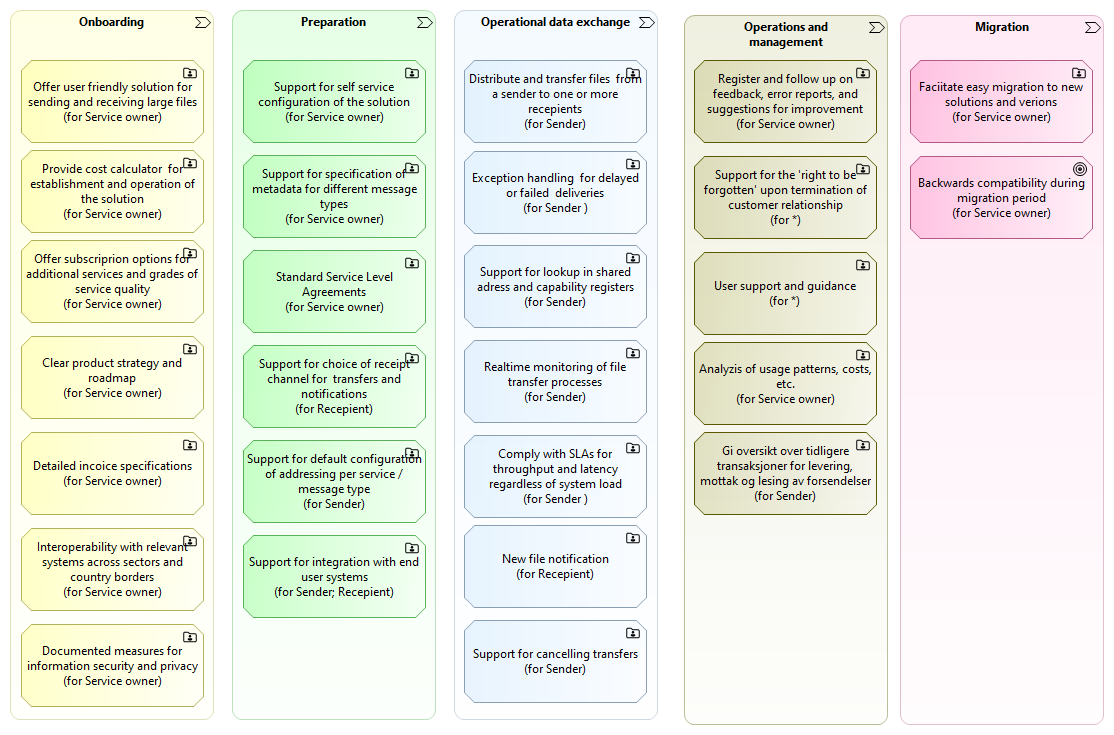
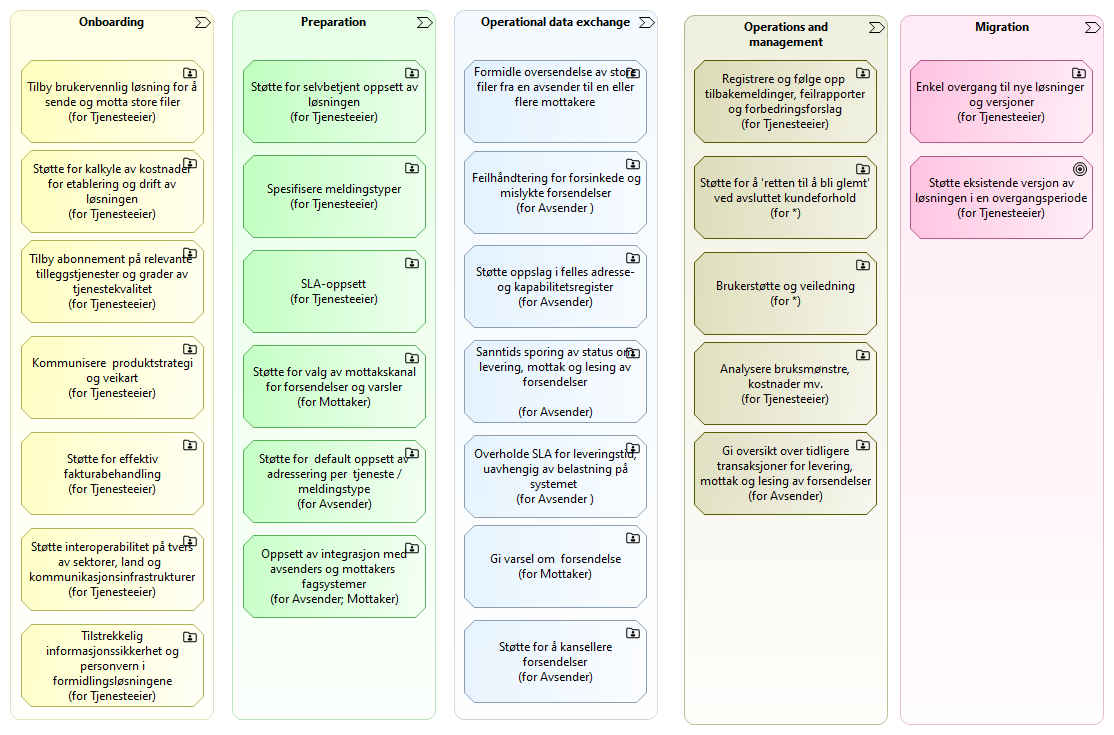
Altinn 3 Broker translation to Norwegian in progress

diff --git a/content/broker/capabilities/_index.nb.md b/content/broker/capabilities/_index.nb.md
@@ -42,8 +42,8 @@ Eksempler på hvordan man leser diagrammet:
 * Som en avsender trenger jeg (evnen) til å sende store  filer til en eller flere mottakere .
 
 
-##  Overordnet systemfunksjonalitet
-
+##  Overordnet systemfunksjonalitet (kapabiliteter)
+ 
 Følgende modell viser overordnede systemkapabiliteter, tilsvarende overordnede brukerbehov som beskrevet i forrige avsnitt.
 
 
@@ -55,89 +55,85 @@ selv om dette ofte kan være tilfeller._
 <!-- Erik TO_DO: Diagram with mapping from user needs (or user capabilities) to system capabilities -->
 
 
-## System features
-For further breakdown of the high-level system capabilities into features, see the [Altinn Broker epics on Github](https://github.com/orgs/Altinn/projects/54/views/11).
+## Detaljert funksjonalitet (features)
 
-_Note: Documentation of the breakdown into features is planned to also be included here._
+For nedbrytning av overordnede kapabiliteter til mer detaljert funksjonalitet (features), se under [Altinn Broker fetaures på Github](https://github.com/orgs/Altinn/projects/54/views/11).
 
-
-
-## Non-functional requirements
-
-Performance Requirements:
-
-- Support for storage and transfer of large files. _Note: Exact file size specifications TBD._
-- High throughput to handle large volumes of data transactions efficiently.
-- Low latency in data processing and transmission.
-
-Scalability:
-
-- Ability to scale up or down based on the demand and number of users.
-- Support for horizontal and vertical scaling strategies.
-
-Availability and Reliability:
-
-- High availability, aiming for near 100% uptime.
-- Robust failover and redundancy mechanisms to ensure continuous  operation.
-- Reliable file transfers. _Note: Detailed requirements TBD._
-
-Security:
-
-- Strong encryption for data in transit and at rest.
-- Comprehensive access control and authentication mechanisms.
-- Regular security audits and compliance with relevant data protection regulations.
-
-Maintainability and Upgradability:
-
-- Ease of maintenance and updates without significant downtime.
-- Modular design to facilitate updates and integration of new features.
-
-Disaster Recovery and Data Backup:
-
-- Effective disaster recovery plan to handle system failures.
-- Regular data backups and secure storage solutions.
-
-Usability:
-
-- User-friendly interface for both administrators and end-users.
-- Comprehensive documentation and user support.
-
-Interoperability:
-
-- Compatibility with various data formats and systems used by businesses
-  and government agencies.
-- APIs for integration with external systems and services.
-
-Compliance and Legal Requirements:
-
-- Adherence to national and international standards and regulations.
-- Regular compliance audits and updates as per legal changes.
-
-Monitoring and Logging:
-
-- Extensive monitoring of system performance and security.
-- Detailed logging of transactions and user activities for audit
-  purposes.
-
-Data Integrity and Quality:
-
-- Mechanisms to ensure the accuracy and consistency of data.
-- Validation checks to maintain data quality.
-
-Load Balancing:
-
-- Effective distribution of workload across servers and resources.
-- Load balancing to optimize resource use and maximize throughput.
-
-Environmental and Operational Conditions:
-
-- Designed to operate under the specified environmental conditions
-  (e.g., data center temperature and humidity).
-- Consideration for operational conditions like power consumption and
-  cooling requirements.
+_Merk: Dokumentasjon av nedbrytning til "features" er planlagt her._
 
 
-Also see:
+## Ikke-funksjonelle krav
 
-1. [Altinn Studio Non-Functional Requirements](https://docs.altinn.studio/technology/architecture/requirements/non_functional/)
-2. Further descriptions regarding information security in separate sections.
+Ytelseskrav:
+
+* Støtte for lagring og overføring av store filer. _Merk: Eksakte spesifikasjoner for filstørrelse skal bestemmes._
+* Høy gjennomstrømming for å effektivt håndtere store volumer av datatransaksjoner.
+* Lav forsinkelse i databehandling og -overføring.
+
+Skalerbarhet:
+
+* Evne til å skalere opp eller ned basert på etterspørsel og antall brukere.
+* Støtte for strategier for horisontal og vertikal skalering.
+
+Tilgjengelighet og pålitelighet:
+
+* Høy tilgjengelighet, med mål om nær 100% oppetid.
+* Robuste mekanismer for failover og redundans for å sikre kontinuerlig drift.
+* Pålitelig filoverføring. _Merk: Detaljerte krav TBD._
+
+Sikkerhet:
+
+* Sterk kryptering for data under overføring og "data at rest".
+* Sterk autentisering og tilgangsstyring.
+* Regelmessige sikkerhetsrevisjoner og overholdelse av relevante databeskyttelsesforskrifter.
+
+Vedlikehold og oppgradering:
+
+* Enkel vedlikehold og oppdateringer uten betydelig nedetid.
+* Modulært design for å lette oppdateringer og integrering av nye funksjoner.
+
+Katastrofegjenoppretting og backup:
+
+* Effektiv plan for katastrofegjenoppretting for å håndtere systemfeil.
+* Regelmessige databackuper og sikre lagringsløsninger.
+
+Brukervennlighet:
+
+* Brukervennlig grensesnitt for både administratorer og sluttbrukere.
+* Omfattende dokumentasjon og brukerstøtte.
+
+Interoperabilitet:
+
+* Kompatibilitet med ulike dataformater og systemer brukt av bedrifter og offentlige etater.
+* API-er for integrasjon med eksterne systemer og tjenester.
+
+Etterlevelse og juridiske krav:
+
+* Overholdelse av nasjonale og internasjonale standarder og forskrifter.
+* Regelmessige revisjoner av overholdelse og oppdateringer i henhold til juridiske endringer.
+
+Overvåking og logging:
+
+* Omfattende overvåking av systemytelse og sikkerhet.
+* Detaljert logging av transaksjoner og brukeraktiviteter for revisjonsformål.
+
+Dataintegritet og kvalitet:
+
+* Mekanismer for å sikre nøyaktighet og konsistens i data.
+* Valideringssjekker for å opprettholde datakvalitet.
+
+Lastbalansering:
+
+* Effektiv fordeling av arbeidsbelastning over servere og ressurser.
+* Lastbalansering for å optimalisere ressursbruk og maksimere gjennomstrømming.
+
+Miljømessige og operasjonelle forhold:
+
+* Designet for å operere under spesifiserte miljøforhold (f.eks., temperatur og fuktighet i datasenteret).
+* Hensyn til operasjonelle forhold som strømforbruk og kjølekrav.
+
+
+Se også:
+
+* [Altinn Studio Non-Functional Requirements](https://docs.altinn.studio/technology/architecture/requirements/non_functional/)
+* Separate kapitler om informasjonssikkerhet. <!-- Erik: kryssreferanse! -->

diff --git a/content/broker/system-interfaces/_index.nb.md b/content/broker/system-interfaces/_index.nb.md
@@ -1,56 +1,52 @@
 ---
-title: System Interfaces
-linktitle: System Interfaces
-description: Altinn 3 Broker System Interfaces 
+title: Systemgrensesnitt
+linktitle: Systemgrensesnitt
+description: Altinn 3 Formidling Systemgrensesnitt
 tags: []
 toc: true
 weight: 30
 ---
 
+## Oversikt over Altinn 3 Formidling eksterne grensesnitt
+Følgende figur indikerer de viktigste systemgrensesnittene for Altinn 3 Formidling som selvstendig løsning (uten Dialogporten):
 
-
-
-## Overview of Altinn 3 Broker external interfaces
-The following figure indicates the main system interfaces of Altinn 3 Broker:
-
-![Altinn 3 Broker Standalone Interfaces Overview](altinn3-broker-standalone-interfaces-overview.en.png "Altinn 3 Broker Standalone Interfaces Overview")
-
+![Oversiktover eksterne grensesnitt for Altinn 3 Formidling som selvstendig løsning](altinn3-broker-standalone-interfaces-overview.nb.png "Oversiktover eksterne grensesnitt for Altinn 3 Formidling som selvstendig løsning")
 
 <!--
 *TIP: The details of the interfaces are not shown by the image as
 such, however the image hyperlinks to a clickable web version with further details.*
 -->
 
-__Interfaces for design time configuration of services and options:__
+__Grensesnitt for konfigurering av tjenester og alternativer i designfasen:__
 
 <!-- Erik, lenke til API/Swagger-spec. også for API for configuration of Altinn Broker -->
 
-* API for configuration of Altinn Broker
-* API for configuration of Maskinporten (authentication and course-grained authorization)
-* API for configuration of Altinn Authorization (fine-grained authorization)
-* API for setup of event subscriptions via Altinn Events
-* GUI for configuration of Altinn Broker
-* GUI for configuration of  Maskinporten
-* GUI for configuration of Altinn Authorization Erik [13:39] Fatland, Ragnar Inge
+* API for konfigurering av Altinn Broker
+* API for konfigurering av Maskinporten (autentisering og grovkornet autorisasjon)
+* API for konfigurering av Altinn Autorisasjon (finkornet autorisasjon)
+* API for oppsett av hendelsesabonnementer via Altinn Hendelser
+* GUI for konfigurering av Altinn Broker
+* GUI for konfigurering av Maskinporten
+* GUI for konfigurering av Altinn Autorisasjon
+
+<!--
+  Erik [13:39] Fatland, Ragnar Inge
 https://docs.altinn.studio/authorization/modules/resourceregistry/studio/
 Ressurs Admin Altinn Studio – Altinn
 Ressursregisteret tilbyr API for alle typer håndtering av ressurser. I tilegg kan man  som del av Altinn studio kan administrere ressursene.
+-->
 
-    _Note_: Altinn 3 Broker does not currently provide a GUI for file transfer operations, 
-but relies om End User System GUIs.
-
-__Interfaces for runtime operation:__
-
-* [API for individual file transfers, including upload, download and status monitoring](#altinn-3-broker-api-for-individual-file-transfers)
+_Merk: Altinn 3 Broker tilbyr inntli videre ikke et eget GUI for filoverføringsoperasjoner, 
+men overlater dette til sluttbrukersystemene._
 
 
+__Grensesnitt for kjøretidsoperasjoner:__
 
-__Interfaces for historical data and statistics:__
+* API for individuelle filoverføringer, inkludert opplasting, nedlasting og statusovervåking
 
-* API for historical data and statistics
+__Grensesnitt for historiske data og statistikk:__
 
-
-
+* API for historiske data og statistikk
 
 
 <!--
@@ -73,27 +69,28 @@ Altinn 3 Broker does not currently provide a GUI for file transfer operations, b
 
 -->
 
-## Altinn 3 Broker API for individual file transfers
+## Altinn 3 Formidling API for filoverføring av enkeltfiler
 
-### Altinn 3 Broker Application services
+### Altinn 3 Formidling applikasjonstjenester
 
-An overview of the application services of Altinn 3 Broker is given in the following figure:
+En oversikt over applikasjonstjenestene til Altinn 3 Formidling gis av følgende figur:
 
-![Altinn 3 Broker Application Services](altinn3-broker-application-services.en.png "Altinn 3 Broker Application Services")
+![Altinn 3 Formidling applikasjonstjenester](altinn3-broker-application-services.en.png "Altinn 3 Formidling applikasjonstjenester")
 
-Each of these application services correspond to a _path_ in the [Altinn 3 Broker OpenAPI specification][Altinn 3 Broker OpenAPI specifications].
+Hver av disse applikasjonstjenestene tilsvarer en _path_ i [Altinn 3 Formidling OpenAPI specification][Altinn 3 Broker OpenAPI specifications].
 
 
-### Altinn Broker File Transfer REST API 
+### Altinn Formidling REST API for filoverføring
 
-See [Altinn 3 Broker OpenAPI specification][Altinn 3 Broker OpenAPI specifications].
+Se [Altinn 3 Formidling OpenAPI spesifikasjon][Altinn 3 Broker OpenAPI specifications].
 
-### Event notifications (machine-to-machine)
+### Notifikasjoner om hendelser - maskin-til-maskin
 
-Notifications about new messages and other events are delivered to webhook subscribers. 
-The specific events are specified as part of the [Altinn 3 Broker OpenAPI specification][Altinn 3 Broker OpenAPI specifications]. 
+Varsler om nye meldinger og andre hendelser leveres til abonnenter av webhooks. 
+De spesifikke hendelsene er spesifisert som en del av 
+[Altinn 3 Formidling OpenAPI spesifikasjon][Altinn 3 Broker OpenAPI specifications]. 
 
-Summary:
+Oppsummering:
 
 * filetransferinitialized: Information about a new file transfer
 * filedeleted: The file has been deleted from Broker
